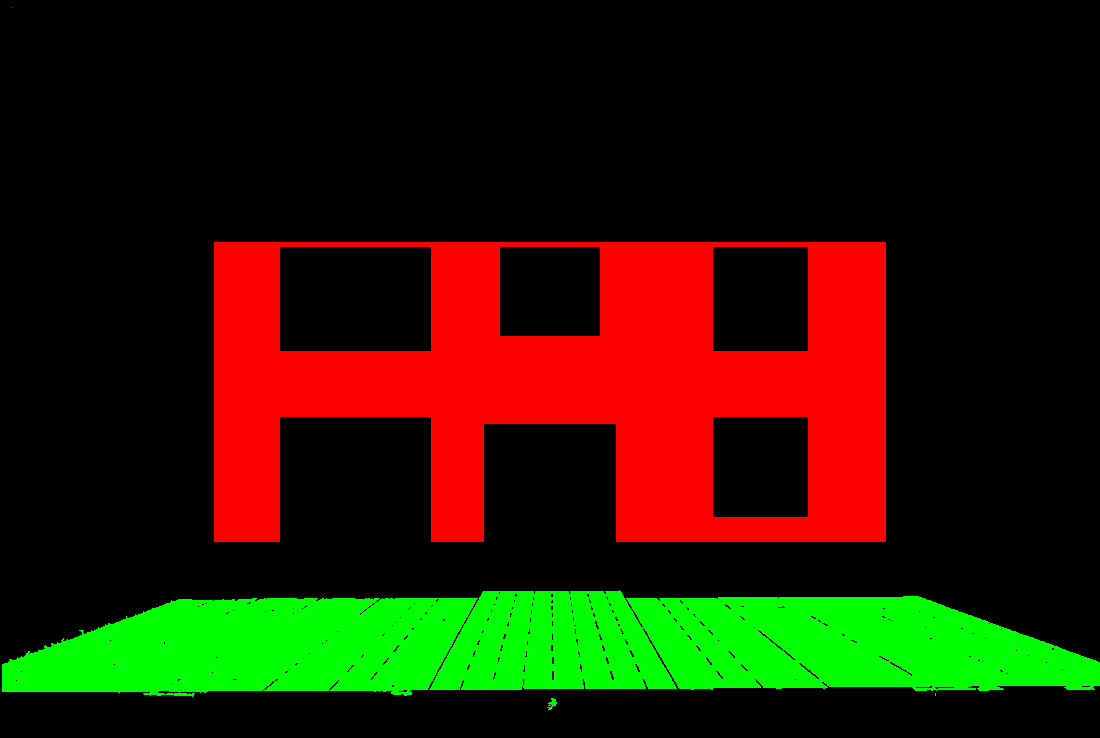
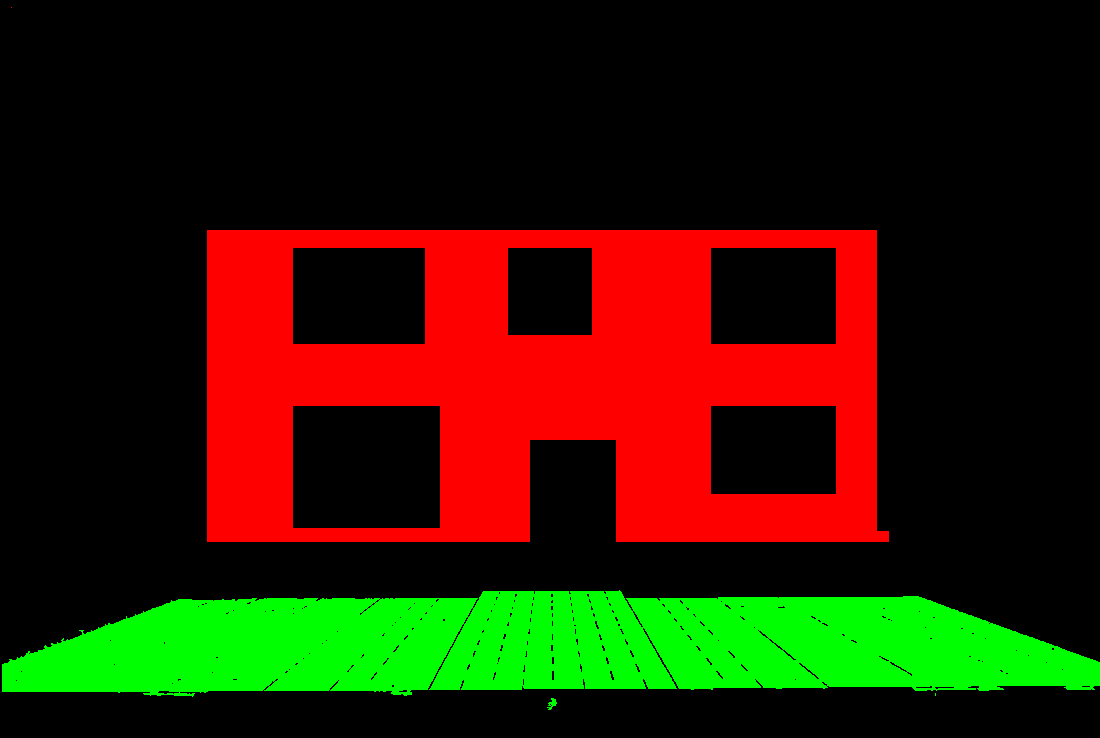
Configurator: tight efh mask + recolour real paving (no radial lines)
- efh wall mask: exact window/door rectangles (no white plaster ring),
  full-width facade to the corners, thin strip kept for the downpipe.
- Floor: recolour the photo's real paving with the mix colour via
  multiply instead of drawing a synthetic paver grid — removes the
  radial joint-line artefacts and keeps the photo's stones/perspective.

Changed region(s): [[0.1855, 0.3117, 0.8036, 0.748], [0.2473, 0.5298, 0.4018, 0.748], [0.4327, 0.561, 0.5564, 0.748]]

diff --git a/assets/js/app.js b/assets/js/app.js
@@ -946,27 +946,31 @@
       });
       }
     }
-    // floor: perspective pavers, then multiply the photo floor so light/shadows stay.
-    // With a scene mask, the pavers are clipped to the exact paved area (G channel).
+    // floor: recolour the photo's REAL paving with the floor mix (no drawn grid → no
+    // radial joint lines). Keeps the photo's stones, joints, shadows and perspective.
     if(pTex){
-      const hz=(cfg.floorHorizon!=null)?my(cfg.floorHorizon):null;
+      // mix colour(s), lightened toward white so multiply tints rather than darkens
+      let cl=document.createElement('canvas'); cl.width=W; cl.height=H;
+      const clc=cl.getContext('2d');
       const fills=[cfg.floor].concat(cfg.floorExtra?[cfg.floorExtra]:[]).map(pg=>pg.map(p=>[mx(p[0]),my(p[1])]));
+      let bx0=1e9,by0=1e9,bx1=-1e9,by1=-1e9; fills.forEach(pg=>pg.forEach(p=>{bx0=Math.min(bx0,p[0]);by0=Math.min(by0,p[1]);bx1=Math.max(bx1,p[0]);by1=Math.max(by1,p[1]);}));
+      clc.drawImage(pTex,bx0,by0,bx1-bx0,by1-by0);                       // large soft mix-colour regions
+      clc.fillStyle='rgba(255,255,255,0.34)'; clc.fillRect(0,0,W,H);     // lighten the tint
       const flr=document.createElement('canvas'); flr.width=W; flr.height=H;
       const fc=flr.getContext('2d');
-      fills.forEach(pg=>paintGroundPavers(fc,pg,pTex,cfg.floorPavers||16,hz));
-      fc.save(); fc.beginPath(); fills.forEach(pg=>{ pg.forEach((p,i)=>i?fc.lineTo(p[0],p[1]):fc.moveTo(p[0],p[1])); fc.closePath(); });
-      fc.clip(); fc.globalCompositeOperation='multiply'; fc.globalAlpha=0.85;
-      fc.drawImage(img,0,0,img.naturalWidth,sH,ox,oy,dw,dh); fc.restore();
+      fc.drawImage(cl,0,0);
+      fc.globalCompositeOperation='multiply';                            // real paving geometry + light
+      fc.drawImage(img,0,0,img.naturalWidth,sH,ox,oy,dw,dh);
+      fc.globalCompositeOperation='destination-in';                      // keep only the paved area
       if(mImg){
         const gm=document.createElement('canvas'); gm.width=W; gm.height=H;
         const gc=gm.getContext('2d',{willReadFrequently:true});
         gc.drawImage(mImg,0,0,mImg.naturalWidth,mImg.naturalHeight*crop,ox,oy,dw,dh);
         let id=null; try{ id=gc.getImageData(0,0,W,H); }catch(e){}
-        if(id){ const d=id.data;
-          for(let i=0;i<d.length;i+=4){ d[i+3]=d[i+1]; d[i]=d[i+1]=d[i+2]=255; }   // alpha = mask green
-          gc.putImageData(id,0,0);
-          fc.globalCompositeOperation='destination-in'; fc.globalAlpha=1; fc.drawImage(gm,0,0);
-        }
+        if(id){ const d=id.data; for(let i=0;i<d.length;i+=4){ d[i+3]=d[i+1]; d[i]=d[i+1]=d[i+2]=255; }
+          gc.putImageData(id,0,0); fc.drawImage(gm,0,0); }
+      } else {
+        fc.beginPath(); fills.forEach(pg=>{ pg.forEach((p,i)=>i?fc.lineTo(p[0],p[1]):fc.moveTo(p[0],p[1])); fc.closePath(); }); fc.fill();
       }
       cx.drawImage(flr,0,0);
     }

diff --git a/index.html b/index.html
@@ -10,7 +10,7 @@
 <link rel="preconnect" href="https://fonts.gstatic.com" crossorigin>
 <link href="https://fonts.googleapis.com/css2?family=Inter:wght@300;400;500;600;700&family=Fraunces:opsz,wght@9..144,400;9..144,500;9..144,600&display=swap" rel="stylesheet">
 <link rel="icon" type="image/png" href="assets/img/logo-mark.png">
-<link rel="stylesheet" href="assets/css/style.css?v=24">
+<link rel="stylesheet" href="assets/css/style.css?v=25">
 </head>
 <body>
 
@@ -280,10 +280,10 @@
 </div>
 
 <script src="assets/js/lenis.min.js"></script>
-<script src="assets/js/products.js?v=24"></script>
-<script src="assets/js/enrich.js?v=24"></script>
-<script src="assets/js/specs.js?v=24"></script>
-<script src="assets/js/i18n.js?v=24"></script>
-<script src="assets/js/app.js?v=24"></script>
+<script src="assets/js/products.js?v=25"></script>
+<script src="assets/js/enrich.js?v=25"></script>
+<script src="assets/js/specs.js?v=25"></script>
+<script src="assets/js/i18n.js?v=25"></script>
+<script src="assets/js/app.js?v=25"></script>
 </body>
 </html>